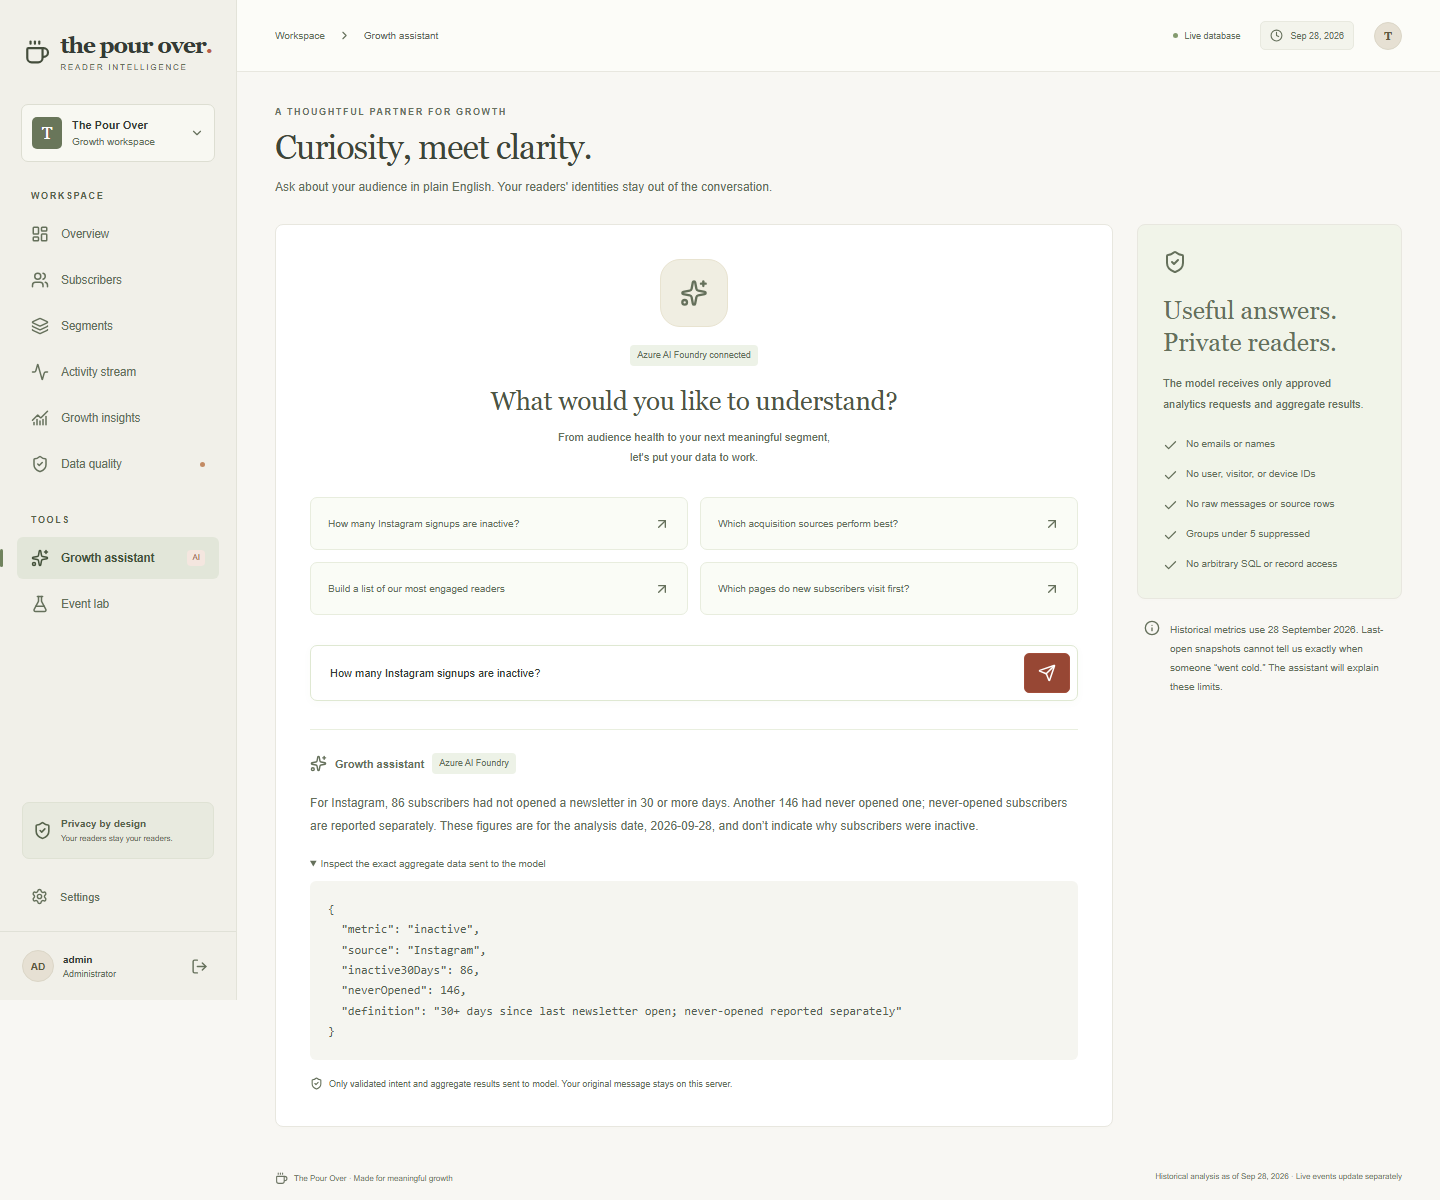
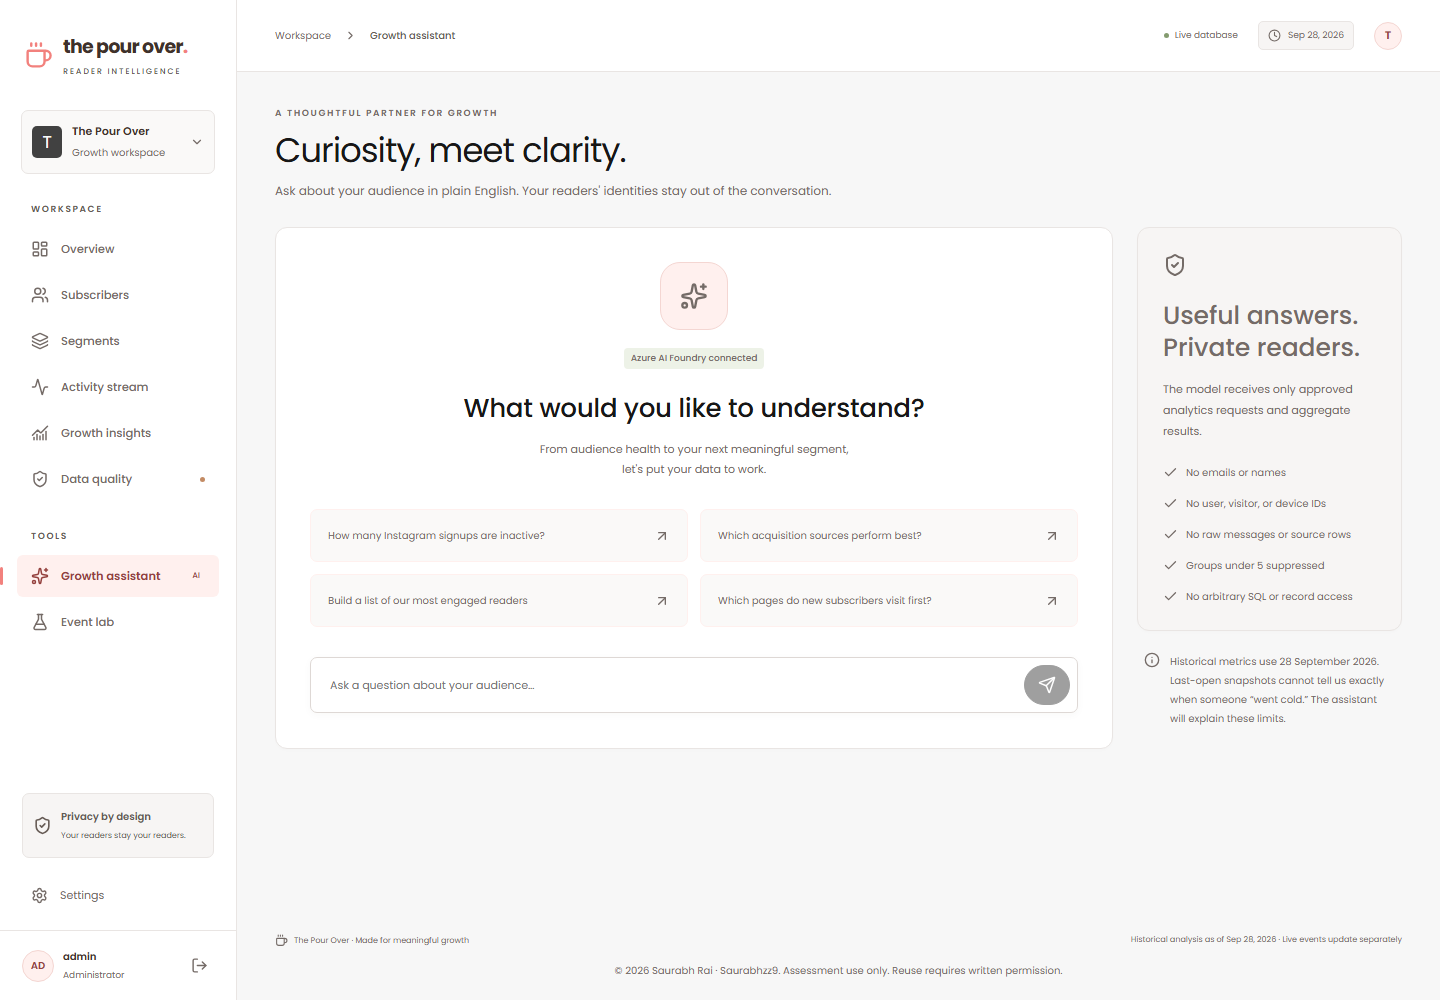
Refresh verified hosted branding screenshots and release evidence [skip ci]

diff --git a/docs/VERIFICATION.md b/docs/VERIFICATION.md
@@ -1,5 +1,7 @@
 # Verification evidence
 
+The current presentation release, `f0d657a53826543a2bac22968aa369714667c83c`, passed [Linux CI and Azure deployment](https://github.com/Saurabhzz9/tpo-mini-cdp/actions/runs/38765421523): 36 unit/integration tests, eleven browser scenarios, typecheck, lint, optimized build, dependency audit and release scanning/packaging. Post-deployment checks verified the requested administrator login, source-backed overview, loaded self-hosted Poppins, coral `#f2817d`, ownership notice, desktop layout and working mobile navigation without horizontal overflow. The three hosted screenshots below were refreshed from that release; this presentation check made no model requests.
+
 The application baseline at `b467b76e4570fef61c12f4d307b39b523997ccc8` passed [Linux CI and Azure delivery](https://github.com/Saurabhzz9/tpo-mini-cdp/actions/runs/38758805189) on October 15, 2026. This page consolidates the recorded results; it does not present historical checks as newly executed checks.
 
 | Executed check | Recorded result |
